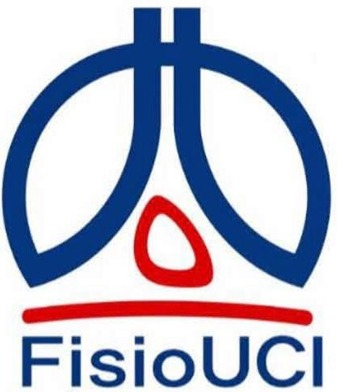
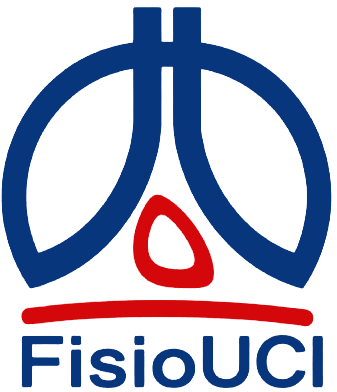
fix(assets): transparentar fondo de fisiouci.png para eliminar recuadro blanco sobre decoraciones

diff --git a/src/app/api/certificates/[code]/pdf/route.ts b/src/app/api/certificates/[code]/pdf/route.ts
@@ -83,7 +83,7 @@ export async function GET(
 
     const templateId = mapCertificateToPayload(certificate).templateId;
     const safeFileName = `Certificado_${code.replace(/[^a-zA-Z0-9-]/g, "_")}.pdf`;
-    const cacheVersion = createHash("sha256").update(JSON.stringify(certificate) + (templateId === "ventilator-formasalud" ? "design-v5" : "design-v30")).digest("hex").slice(0, 12);
+    const cacheVersion = createHash("sha256").update(JSON.stringify(certificate) + (templateId === "ventilator-formasalud" ? "design-v5" : "design-v31")).digest("hex").slice(0, 12);
     const cachedFilePath = path.join(CACHE_DIR, `${code.replace(/[^a-zA-Z0-9-]/g, "_")}-${cacheVersion}.pdf`);
 
     if (certificate.valid === false || certificate.status === "revoked") {
